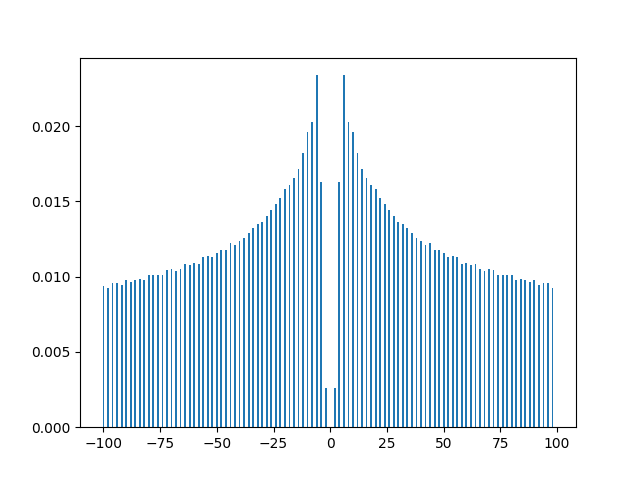
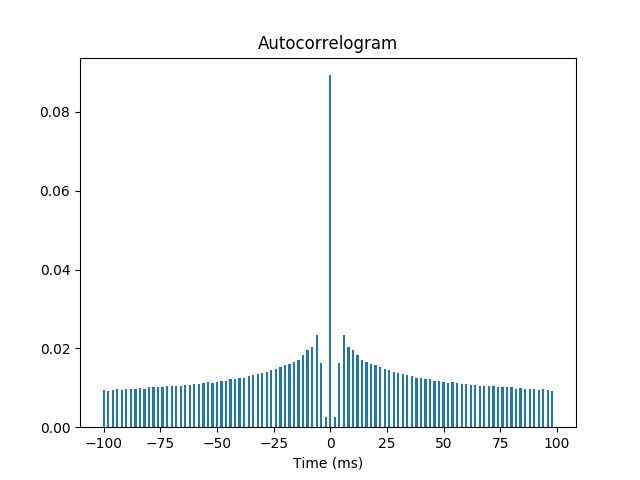
final

diff --git a/coursework2/load.py b/coursework2/load.py
@@ -43,34 +43,24 @@ def autocorrelogram(spikes):
     for s in range (len(spikes)):
         if (spikes[s] == 1):
             for i in range (-50, 50):
-                if (i != 0):
-                    try:
-                        if (spikes[s+i] == 1):
-                            occurance[i+50] += 1
-                    except:
-                        pass
+                #if (i != 0):
+                try:
+                    if (spikes[s+i] == 1):
+                        occurance[i+50] += 1
+                except:
+                    pass
 
     occurance[:] = [o / len(spikes) for o in occurance]
 
     x = np.arange(-100,100,2)
 
-    # plt.bar(x, occurance)
-    # plt.show()
-    # plt.savefig('q3.png')
-    '''
-    inter = []
-    for s in range (len(spikes)):
-        if (spikes[s] == 1):
-            time = ( s+1 ) * 0.002
-            inter.append(time)
-        else:
-            inter.append(0)
+    #plt.plot(x, occurance)
+    #plt.title('Autocorrelogram')
+    #plt.xlabel('Time (ms)')
+    #plt.ylabel('Membrane Potential (V)')
+    #plt.show()
+    #plt.savefig('q3_2.png')
 
-    # print(occurance)
-    # list(range(-200, 200)),
-    plt.acorr(inter, maxlags = 100)
-    plt.show()
-    '''
 
 
 def get_spike_trig_avg(spike_times, stimulus, window):
@@ -79,12 +69,9 @@ def get_spike_trig_avg(spike_times, stimulus, window):
         # Get list of times to get from stimulus
         # Convert to int
         windowStart = int(spike_times[s] * 1000 - 100)
-        # windowEnd = int(spike_times[s] * 1000 + 50)
         windowEnd = int(spike_times[s] * 1000)
         if (windowStart < 0):
             windowStart = 0
-        # if (windowEnd > (20 * 60 * 1000)):
-        #     windowEnd = 20*60*1000
 
         timings = np.arange(windowStart, windowEnd, 2, dtype = int)
         for i in range (len(timings)):
@@ -98,17 +85,17 @@ def get_spike_trig_avg(spike_times, stimulus, window):
     return sta
 
 def show_trig_avg_plot(xs, ys):
-    plt.bar(xs, ys)
+    plt.plot(xs, ys)
     # plt.show()
-    plt.savefig('q4.png')
+    plt.title('Spike Triggered Average')
+    plt.xlabel('Time (ms)')
+    plt.savefig('q4_2.png')
+
 # Q2---------------------------------------------
 print("------------------START------------------")
 print("RHO DAT 20 minutes Sampling rate 500Hz")
 #spikes=[int(x) for x in load_data("rho.dat")]
 spikes=load_data("rho.dat",int)
-
-# print(len(spikes))
-# print(spikes[35:40])
 
 # need to get spike_train for the window
 print("window: 10ms")
@@ -153,6 +140,5 @@ print(len(trigger))
 
 xs = np.arange(-100,0,2)
 show_trig_avg_plot(xs,trigger)
-# print(len(stimulus))
-# print(stimulus[0:5])
+
 

diff --git a/coursework2/poisson.py b/coursework2/poisson.py
@@ -100,10 +100,6 @@ if __name__ == "__main__":
 
     spike_train = get_spike_train(rate, big_t, tau_ref)
 
-    #print(len(spike_train))
-    #print(len(spike_train) / big_t)
-    # print(spike_train)
-
     # for refract = 0, windowwidth 10ms
     print("----- refracotry = 0, windowwidth = 10ms")
     s_counts = get_spike_count(spike_train, big_t, window_width)
@@ -128,6 +124,7 @@ if __name__ == "__main__":
     s_intervals = get_spike_intervals(spike_train)
     calc_coeff_var(s_intervals)
 
+    # for refract = 5ms, windowwidth 10ms
     print("----- refracotry = 5ms, windowwidth = 10ms")
     tau_ref = 5 * ms
     spike_train = get_spike_train(rate, big_t, tau_ref)
